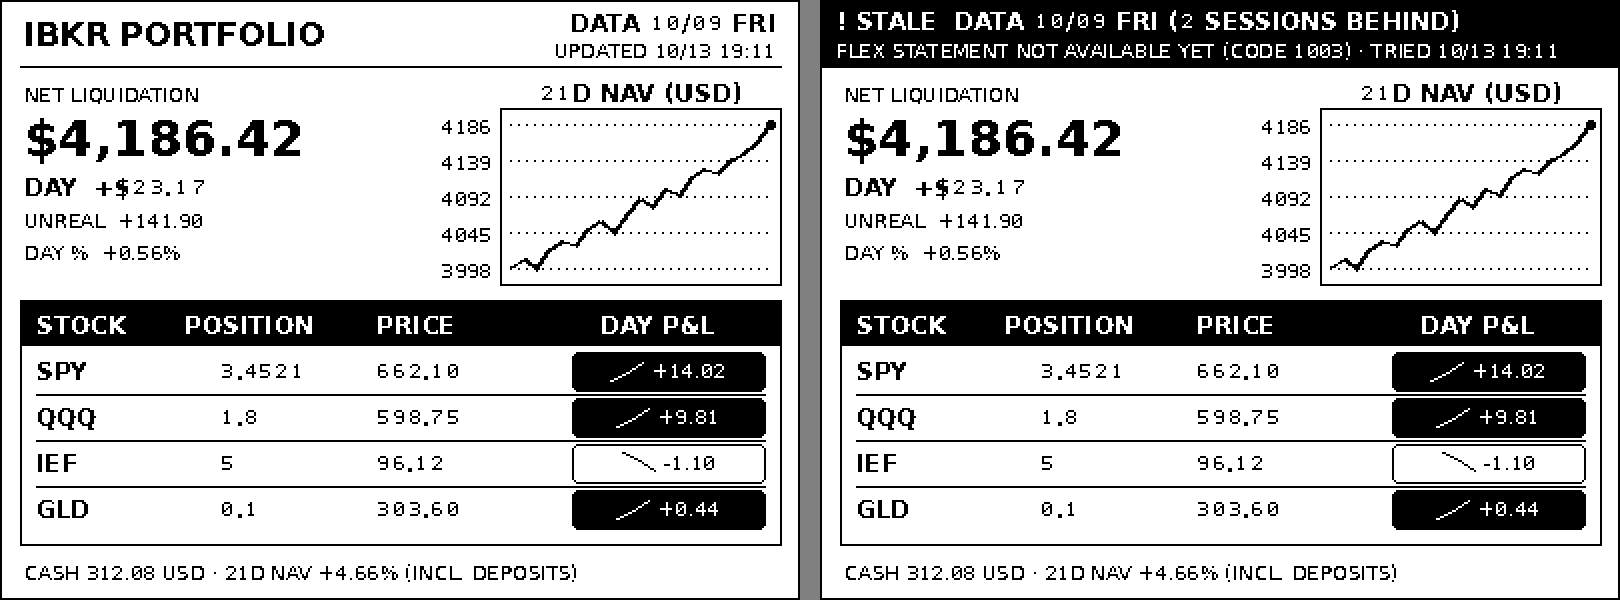
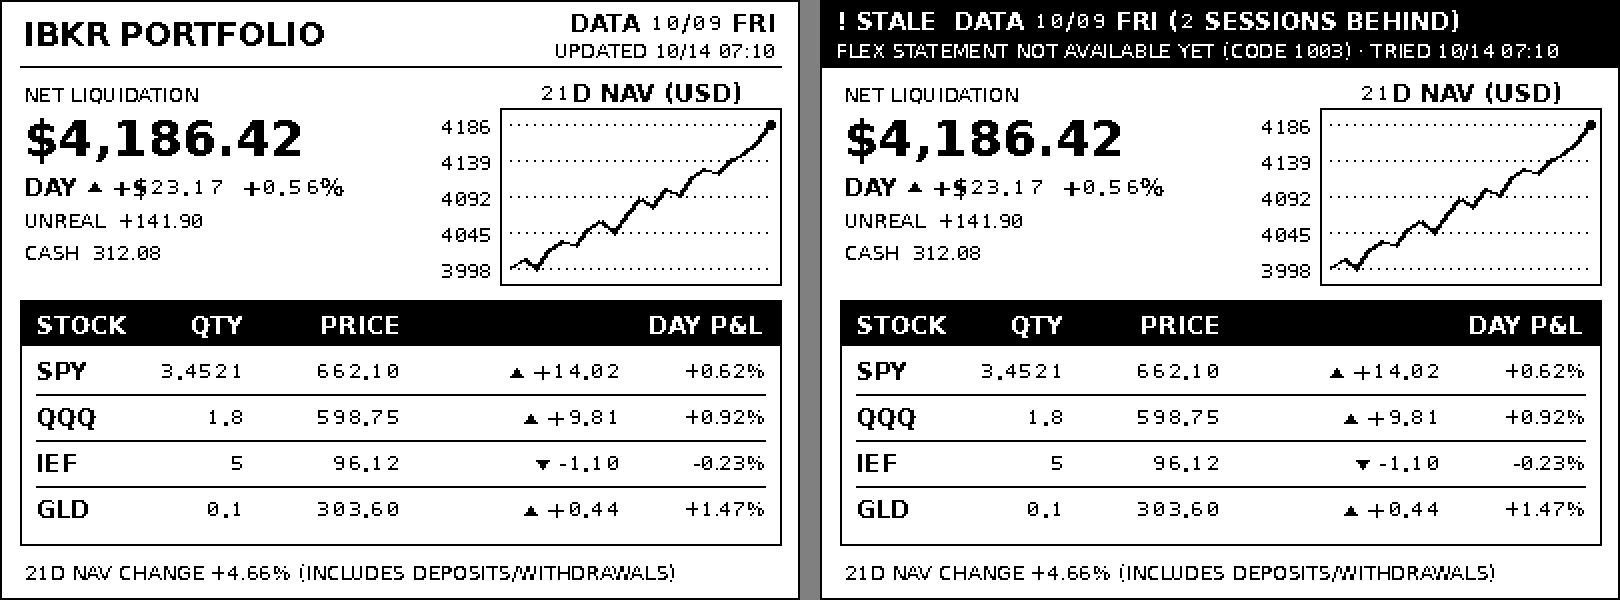
Replace P&L badges with arrows and right-aligned amount/percent columns
Day P&L now shows a solid up/down triangle, the signed amount and the
percent change, with all numeric columns right-aligned. Without the
optional daily Flex query the table shows unrealized P&L under its own
heading instead of a column of N/A.

diff --git a/src/ibkr_zectrix_dashboard/render.py b/src/ibkr_zectrix_dashboard/render.py
@@ -1,6 +1,6 @@
 """Deterministic 400x300 one-bit dashboard renderer.
 
-Layout, pixel digits and P&L badges are adapted from ibkr-note4-dashboard (MIT,
+Layout and pixel digits are adapted from ibkr-note4-dashboard (MIT,
 see NOTICE). New here: the header always carries the broker data date and the
 fetch time, and an inverted STALE banner replaces it when data is overdue.
 """
@@ -128,23 +128,37 @@ def _fit(draw: ImageDraw.ImageDraw, value: str, font, width: int) -> str:
     return value + "..."
 
 
-def _pnl_badge(draw: ImageDraw.ImageDraw, pnl: float | None, box: tuple[int, int, int, int], font) -> None:
-    left, top, right, bottom = box
-    positive = pnl is not None and pnl > 0
-    foreground, background = (255, 0) if positive else (0, 255)
-    draw.rounded_rectangle(box, radius=3, fill=background, outline=0, width=1)
-    middle = (top + bottom) // 2
-    label = "N/A" if pnl is None else (f"{pnl:+,.2f}" if pnl else "0.00")
-    tb = draw.textbbox((0, 0), label, font=font)
-    group_left = left + ((right - left + 1) - (16 + 5 + tb[2] - tb[0])) // 2
-    if pnl is None or pnl == 0:
-        points = [(group_left, middle), (group_left + 16, middle)]
-    elif positive:
-        points = [(group_left, middle + 5), (group_left + 7, middle + 2), (group_left + 16, middle - 4)]
+def _arrow(draw: ImageDraw.ImageDraw, x: int, cy: int, value: float | None, fill: int = 0) -> None:
+    """Solid 7x5 triangle: up for gains, down for losses, dash for flat/unknown."""
+    if value is not None and value > 0:
+        draw.polygon([(x, cy + 2), (x + 6, cy + 2), (x + 3, cy - 2)], fill=fill)
+    elif value is not None and value < 0:
+        draw.polygon([(x, cy - 2), (x + 6, cy - 2), (x + 3, cy + 2)], fill=fill)
     else:
-        points = [(group_left, middle - 5), (group_left + 7, middle - 2), (group_left + 16, middle + 4)]
-    draw.line(points, fill=foreground, width=1)
-    _text(draw, (group_left + 21, top + (bottom - top - (tb[3] - tb[1])) // 2 - tb[1]), label, font, foreground)
+        draw.line((x + 1, cy, x + 5, cy), fill=fill)
+
+
+def _right(draw: ImageDraw.ImageDraw, right: float, y: float, value: str, font, fill: int = 0) -> None:
+    _text(draw, (right - draw.textlength(value, font=font), y), value, font, fill)
+
+
+def _signed(value: float | None) -> str:
+    if value is None:
+        return "N/A"
+    if abs(value) >= 10_000:
+        return f"{value / 1_000:+,.1f}K"
+    return f"{value:+,.2f}" if value else "0.00"
+
+
+def _pct(value: float | None) -> str:
+    return "" if value is None else f"{value:+.2f}%"
+
+
+def _change_pct(change: float | None, current: float | None) -> float | None:
+    """Change relative to the value before the change (day open or cost)."""
+    if change is None or current is None or not current - change:
+        return None
+    return change / abs(current - change) * 100
 
 
 def _trend(draw: ImageDraw.ImageDraw, values: list[float], box: tuple[int, int, int, int], font) -> None:
@@ -210,10 +224,16 @@ def render_png(snapshot: Snapshot, banner: Banner, *, tz: ZoneInfo, max_position
 
     draw.text((12, 41), "NET LIQUIDATION", font=fonts["r10"], fill=0)
     draw.text((12, 54), money(snapshot.net_liquidation, currency, compact=True), font=fonts["bold25"], fill=0)
-    _text(draw, (12, 86), f"DAY  {money(snapshot.daily_pnl, currency, compact=True, signed=True)}", fonts["bold12"], 0)
-    _text(draw, (12, 104), f"UNREAL  {money(snapshot.unrealized_pnl, currency, compact=True, signed=True, symbol=False)}", fonts["r10"], 0)
-    day_pct = "N/A" if snapshot.daily_pnl_pct is None else f"{snapshot.daily_pnl_pct:+.2f}%"
-    _text(draw, (12, 120), f"DAY %  {day_pct}", fonts["r10"], 0)
+    draw.text((12, 86), "DAY", font=fonts["bold12"], fill=0)
+    _arrow(draw, 44, 93, snapshot.daily_pnl)
+    if snapshot.daily_pnl is None:
+        _text(draw, (56, 88), "N/A - ADD DAILY FLEX QUERY", fonts["r10"], 0)
+    else:
+        day = f"{money(snapshot.daily_pnl, currency, compact=True, signed=True)}  {_pct(snapshot.daily_pnl_pct)}"
+        _text(draw, (56, 86), day, fonts["bold12"], 0)
+    unreal = money(snapshot.unrealized_pnl, currency, compact=True, signed=True, symbol=False)
+    _text(draw, (12, 104), f"UNREAL  {unreal}", fonts["r10"], 0)
+    _text(draw, (12, 120), f"CASH  {money(snapshot.cash, currency, compact=True, symbol=False)}", fonts["r10"], 0)
 
     title = f"{len(snapshot.nav_history)}D NAV ({currency})" if snapshot.nav_history else f"NAV ({currency})"
     _text(draw, (320 - draw.textlength(title, font=fonts["bold12"]) // 2, 39), title, fonts["bold12"], 0)
@@ -221,27 +241,34 @@ def render_png(snapshot: Snapshot, banner: Banner, *, tz: ZoneInfo, max_position
 
     draw.rectangle((10, 150, 390, 272), outline=0, width=1)
     draw.rectangle((10, 150, 390, 172), fill=0)
-    for x, label in ((18, "STOCK"), (92, "POSITION"), (188, "PRICE"), (300, "DAY P&L")):
-        draw.text((x, 155), label, font=fonts["bold12"], fill=255)
-    positions = sorted(snapshot.positions, key=lambda p: abs(p.market_value or 0.0), reverse=True)[:max_positions]
+    positions = sorted(snapshot.positions, key=lambda p: abs(p.market_value or 0.0), reverse=True)[:min(max_positions, 4)]
+    # Without the optional daily Flex query there is no per-position day P&L;
+    # show unrealized P&L (vs cost) under its own heading instead of a column of N/A.
+    daily = any(p.daily_pnl is not None for p in positions)
+    heading = "DAY P&L" if daily else "UNREAL P&L"
+    draw.text((18, 155), "STOCK", font=fonts["bold12"], fill=255)
+    for right, label in ((122, "QTY"), (200, "PRICE"), (382, heading)):
+        draw.text((right - draw.textlength(label, font=fonts["bold12"]), 155), label, font=fonts["bold12"], fill=255)
     if not positions:
         draw.text((18, 182), "No open positions", font=fonts["r12"], fill=0)
-    for index, position in enumerate(positions[:4]):
+    for index, position in enumerate(positions):
         row_top = 176 + index * 23
-        draw.text((18, row_top + 2), position.symbol, font=fonts["bold12"], fill=0)
-        _text(draw, (110, row_top + 2), _quantity(position.quantity), fonts["r12"], 0)
-        price = "N/A" if position.market_price is None else f"{position.market_price:,.2f}"
-        _text(draw, (188, row_top + 2), price, fonts["r12"], 0)
-        _pnl_badge(draw, position.daily_pnl, (286, row_top, 382, row_top + 19), fonts["r10"])
-        if index < len(positions[:4]) - 1:
+        y = row_top + 2
+        draw.text((18, y), position.symbol, font=fonts["bold12"], fill=0)
+        _right(draw, 122, y, _quantity(position.quantity), fonts["r12"])
+        _right(draw, 200, y, "N/A" if position.market_price is None else f"{position.market_price:,.2f}", fonts["r12"])
+        change = position.daily_pnl if daily else position.unrealized_pnl
+        amount = _signed(change)
+        _right(draw, 310, y, amount, fonts["r12"])
+        _arrow(draw, round(310 - draw.textlength(amount, font=fonts["r12"])) - 11, y + 8, change)
+        _right(draw, 382, y + 1, _pct(_change_pct(change, position.market_value)), fonts["r10"])
+        if index < len(positions) - 1:
             draw.line((18, row_top + 21, 382, row_top + 21), fill=0, width=1)
 
     change = snapshot.period_change_pct
-    window = f"{len(snapshot.nav_history)}D" if snapshot.nav_history else ""
-    footer = f"CASH {money(snapshot.cash, currency, compact=True, symbol=False)} {currency}"
     if change is not None:
-        footer += f" · {window} NAV {change:+.2f}% (INCL. DEPOSITS)"
-    _text(draw, (12, 280), _fit(draw, footer, fonts["r10"], WIDTH - 24), fonts["r10"], 0)
+        footer = f"{len(snapshot.nav_history)}D NAV CHANGE {change:+.2f}% (INCLUDES DEPOSITS/WITHDRAWALS)"
+        _text(draw, (12, 280), _fit(draw, footer, fonts["r10"], WIDTH - 24), fonts["r10"], 0)
 
     buffer = io.BytesIO()
     image.convert("1", dither=Image.Dither.NONE).save(buffer, format="PNG", optimize=True)

diff --git a/tests/test_render_cli.py b/tests/test_render_cli.py
@@ -74,3 +74,19 @@ def test_zectrix_push_shape():
     assert url.endswith("/open/v1/devices/AA%3ABB/display/image")
     assert kwargs["method"] == "POST" and kwargs["headers"]["X-API-Key"] == "key"
     assert b'name="pageId"\r\n\r\n2' in kwargs["data"] and b'name="dither"\r\n\r\nfalse' in kwargs["data"]
+
+
+def test_change_pct_is_relative_to_value_before_change():
+    from ibkr_zectrix_dashboard.render import _change_pct, _signed
+
+    assert _change_pct(14.02, 2285.63) == pytest.approx(14.02 / (2285.63 - 14.02) * 100)
+    assert _change_pct(None, 100.0) is None and _change_pct(5.0, 5.0) is None
+    assert (_signed(-1.1), _signed(0.0), _signed(12_345.0), _signed(None)) == ("-1.10", "0.00", "+12.3K", "N/A")
+
+
+def test_renders_without_daily_query():
+    snapshot = _sample()
+    snapshot.daily_pnl = None
+    for position in snapshot.positions:
+        position.daily_pnl = None
+    assert image(render_png(snapshot, Banner("ok", NOW), tz=TZ)).size == (400, 300)

diff --git a/README.md b/README.md
@@ -15,7 +15,7 @@
 
 ## 屏幕
 
-左：正常；右：数据过期（虚构样例数据）。
+左：正常；右：数据过期（虚构样例数据）。没配置日盈亏查询时，持仓表改为显示未实现盈亏（[示例](docs/preview-no-daily-query.png)）。
 
 ![preview](docs/preview-compare.png)
 
